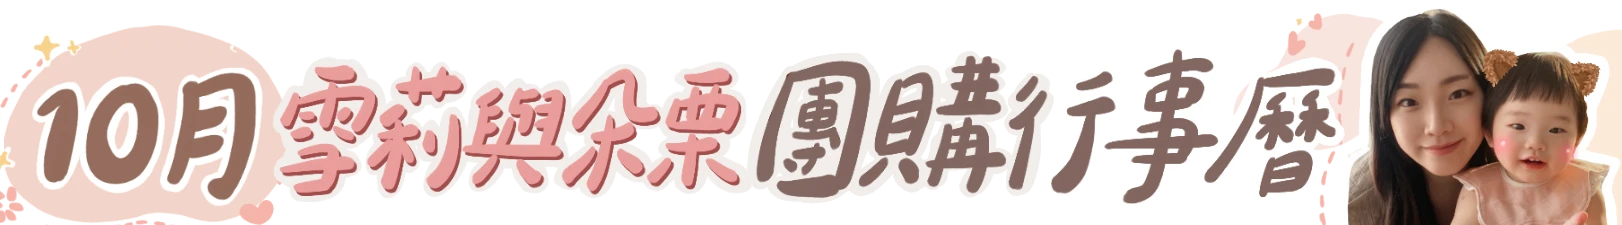
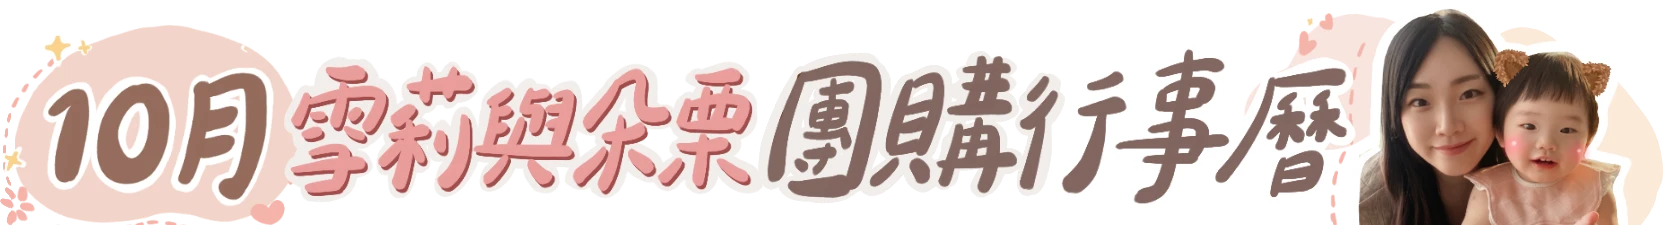
行事曆圖產生器：10月標題圖換第二版（左右不再被切）

diff --git a/calendar-poster.html b/calendar-poster.html
@@ -1677,7 +1677,7 @@ function titleImgSrc() {
   const mm = String(currentMonth + 1).padStart(2, '0');
   const slim = (S.mode === 'list' && visibleGroups('list').length >= 24);
   // ?v= 換標題圖時改日期，避免瀏覽器快取到舊圖
-  return `images/calendar/title-${mm}${slim ? '-slim' : ''}.webp?v=20260930c`;
+  return `images/calendar/title-${mm}${slim ? '-slim' : ''}.webp?v=20260930d`;
 }
 
 function buildHead() {
